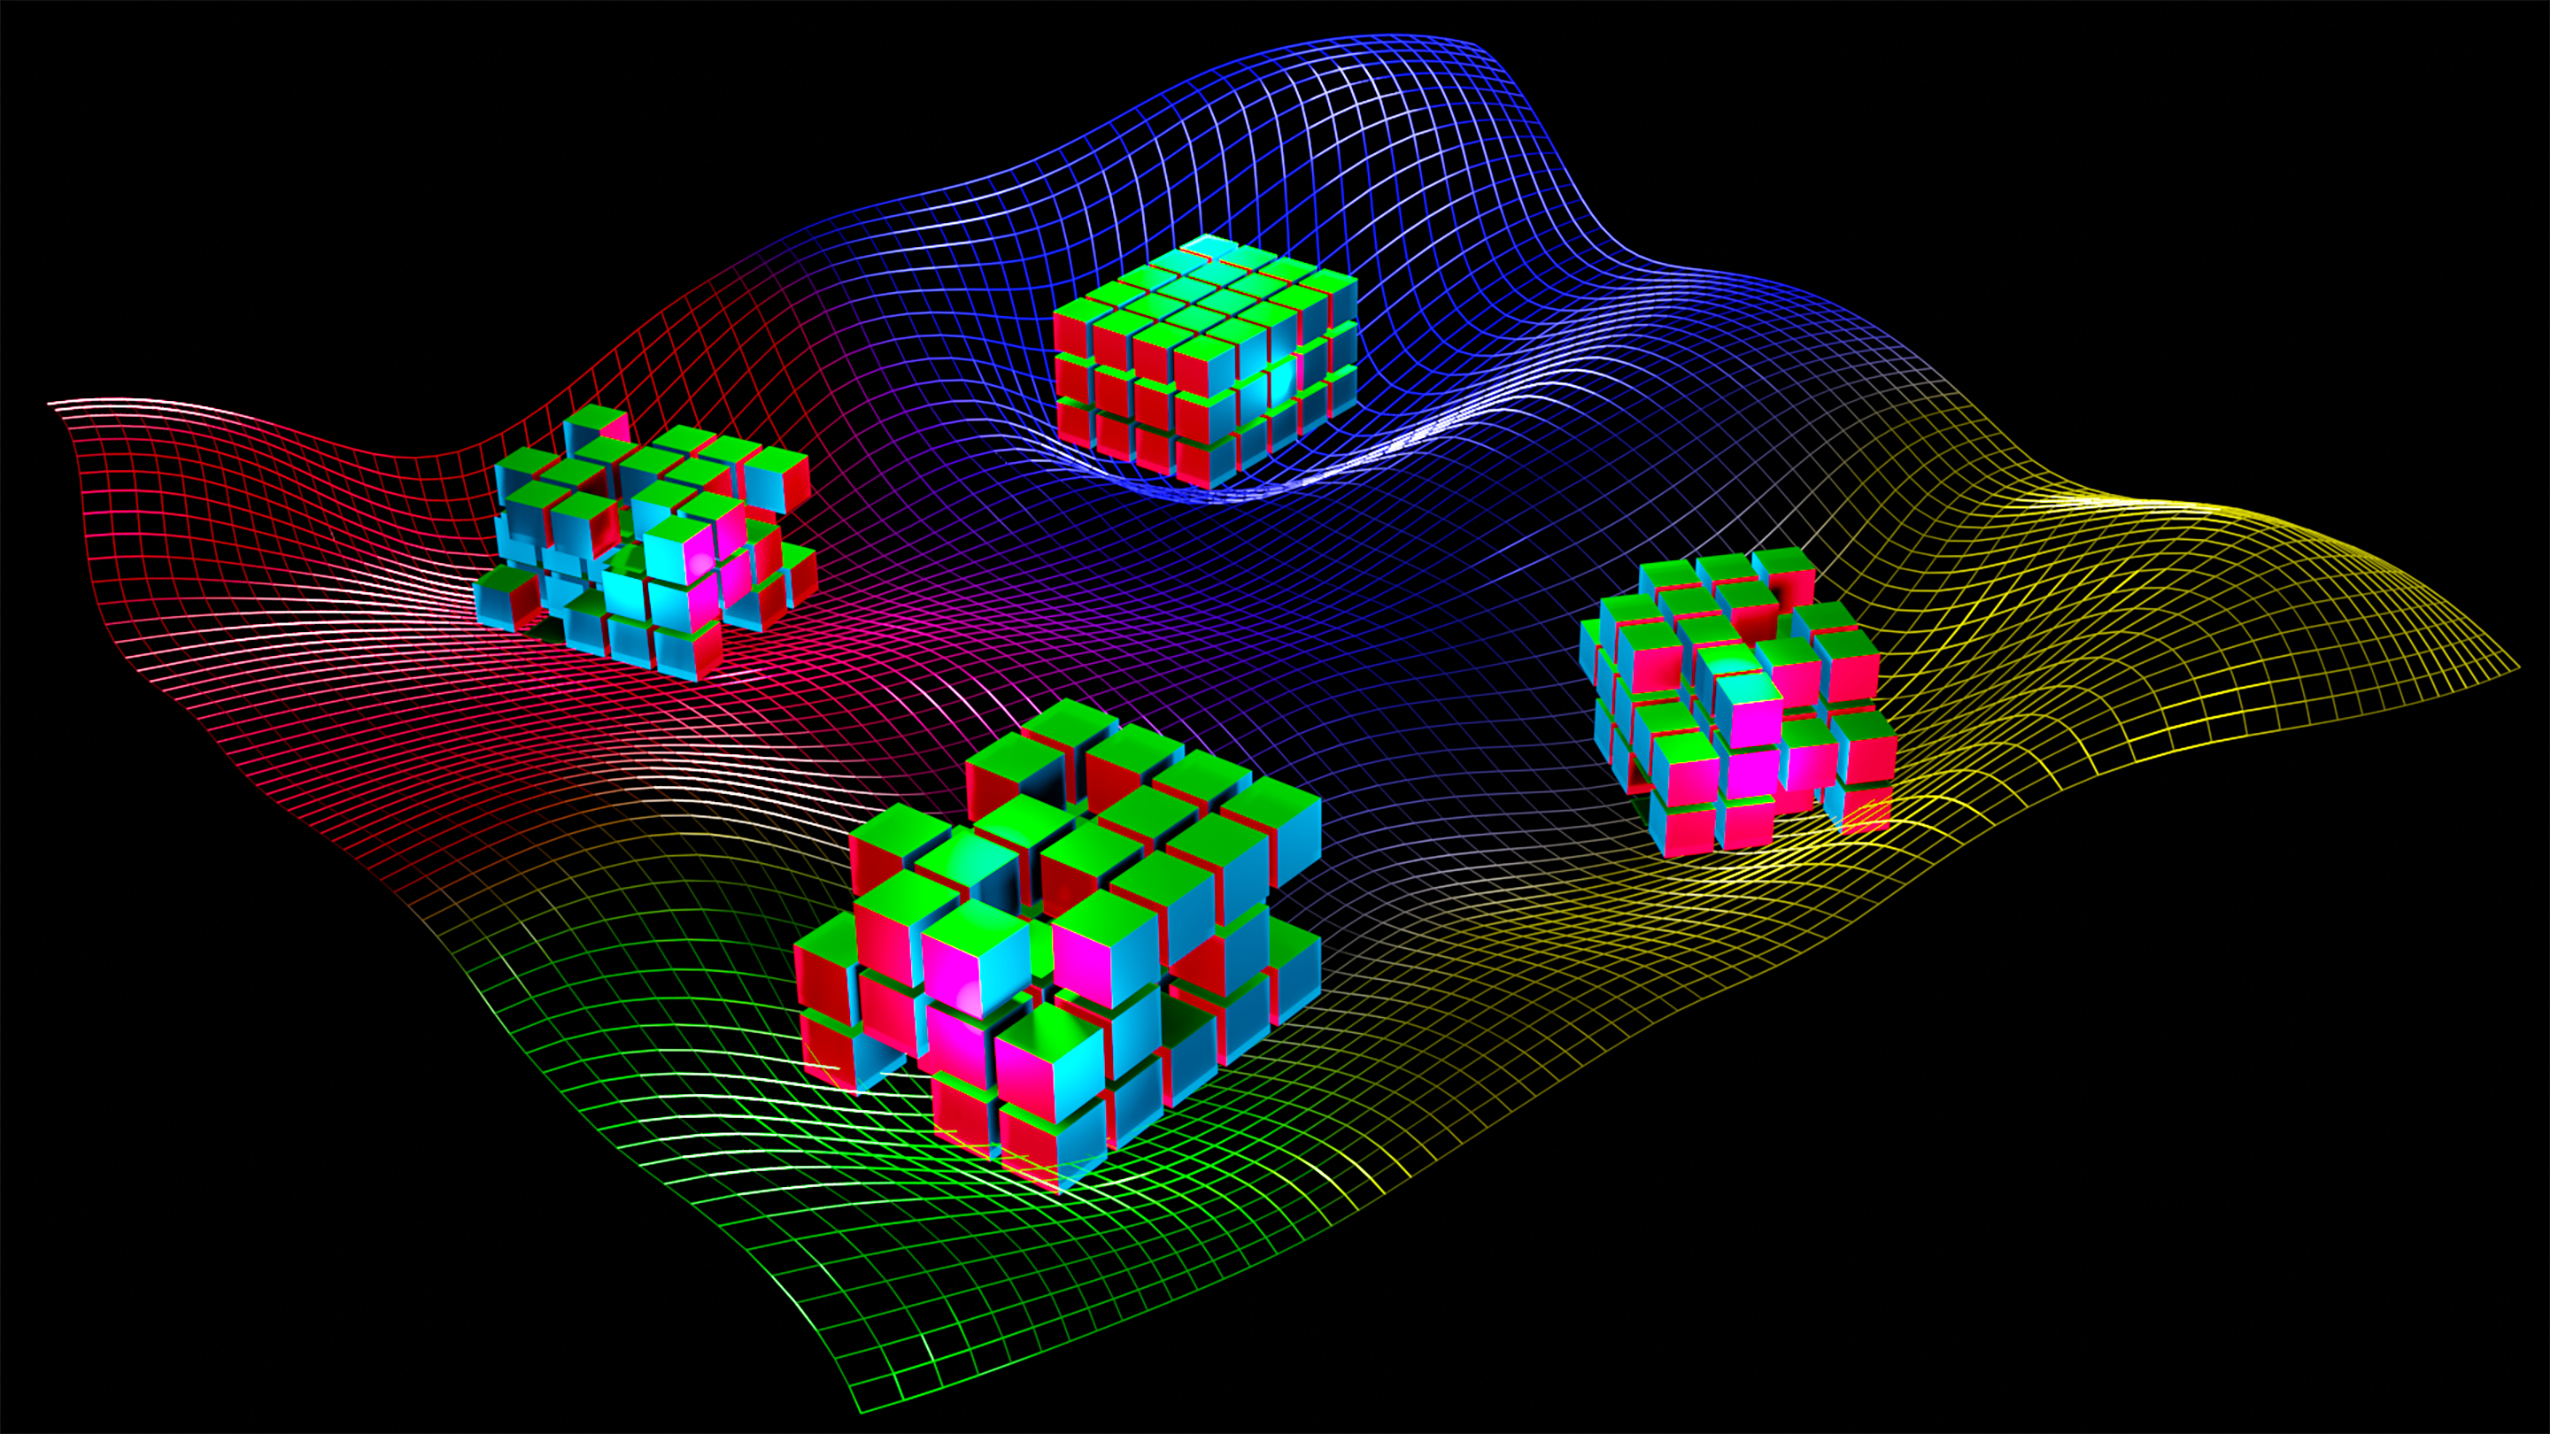
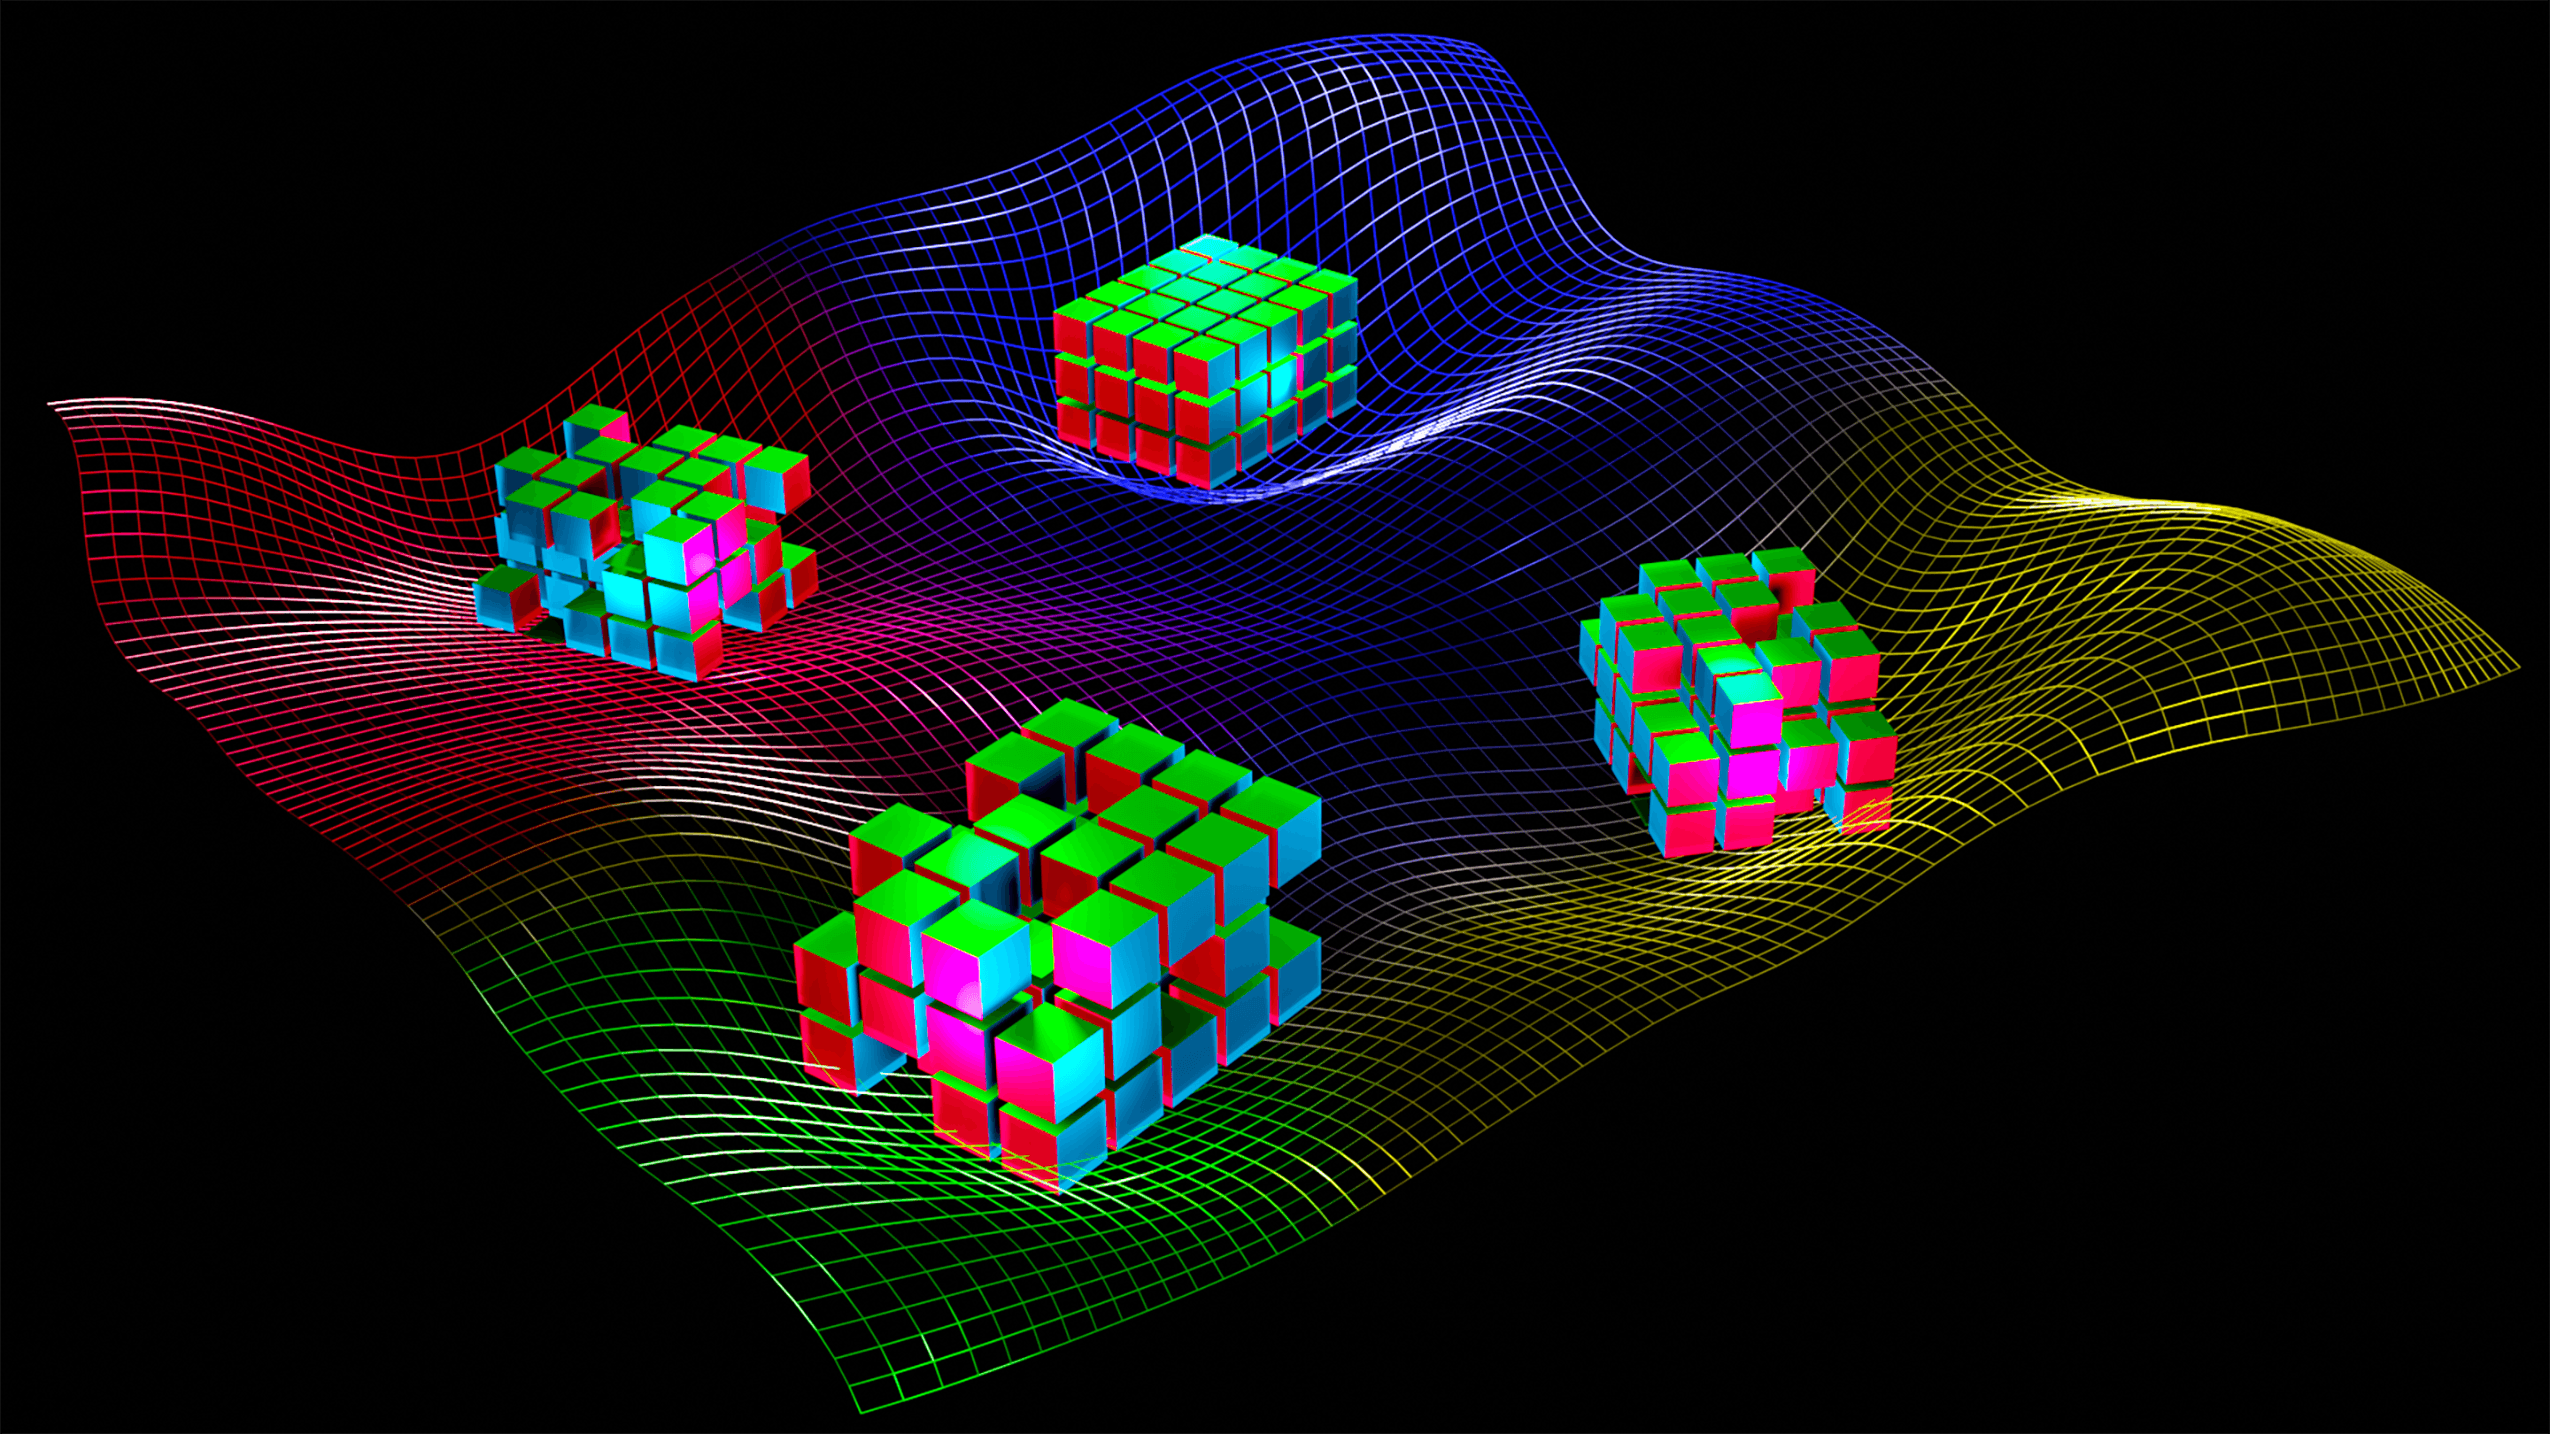
Compress previous images

Changed region(s): [[0.7125, 0.5523, 0.7435, 0.583]]

diff --git a/gallery.js b/gallery.js
@@ -6,13 +6,31 @@
 // ─────────────────────────────────────────────
 const GALLERY_IMAGES = [
   // Example — uncomment and add your files:
-  { file: 'empire-of-microsoft.jpg',  caption: 'Software wars" by wike is licensed under CC BY-SA 2.0.' },
+  { file: 'empire-of-microsoft.jpg',  caption: 'Software wars by wike is licensed under CC BY-SA 2.0.' },
   { file: 'The_Scientific_Universe.png',   caption: 'By Efbrazil - Own work, CC BY-SA 3.0, https://commons.wikimedia.org/w/index.php?curid=25567651' },
-  { file: 'Multidimensional_Software_Architecture_Environment.png',   caption: 'Lora Gilyard, CC BY-SA 4.0 <https://creativecommons.org/licenses/by-sa/4.0>, via Wikimedia Commons' },
-  { file: 'Principles_of_machine_learning.png',   caption: 'Langs, G., Röhrich, S., Hofmanninger, J. et al., CC BY 4.0 <https://creativecommons.org/licenses/by/4.0>, via Wikimedia Commons' },
-  { file: 'Gradient_descent_method_too_large_step_causes_oscillations_near_the_maximum.jpg',   caption: 'Tomasz59, CC BY-SA 4.0 <https://creativecommons.org/licenses/by-sa/4.0>, via Wikimedia Commons' },
-  { file: 'Figure-1-The-different-layers-of-an-embedded-system.jpg',   caption: 'Bassem Ouni, Cécile Belleudy, Eric Senn, CC BY 2.0 <https://creativecommons.org/licenses/by/2.0>, via Wikimedia Commons' },
-  { file: 'Qp_components.jpg',   caption: 'Mirosamek, CC BY-SA 3.0 <https://creativecommons.org/licenses/by-sa/3.0>, via Wikimedia Commons' },
+  { file: 'Multidimensional_Software_Architecture_Environment.png',   caption: 'Lora Gilyard, CC BY-SA 4.0, via Wikimedia Commons' },
+  { file: 'Principles_of_machine_learning.png',   caption: 'Langs, G., Röhrich, S., Hofmanninger, J. et al., CC BY 4.0, via Wikimedia Commons' },
+  { file: 'Gradient_descent_method_too_large_step_causes_oscillations_near_the_maximum.jpg',   caption: 'Tomasz59, CC BY-SA 4.0, via Wikimedia Commons' },
+  { file: 'Figure-1-The-different-layers-of-an-embedded-system.jpg',   caption: 'Bassem Ouni, Cécile Belleudy, Eric Senn, CC BY 2.0, via Wikimedia Commons' },
+  { file: 'Qp_components.jpg',   caption: 'Mirosamek, CC BY-SA 3.0, via Wikimedia Commons' },
   { file: '_The_School_of_Athens__by_Raffaello_Sanzio_da_Urbino.jpg',   caption: 'Raphael, Public domain, via Wikimedia Commons' },
   { file: 'Cole_Thomas_The_Consummation_The_Course_of_the_Empire_1836 (1).jpg',   caption: 'Thomas Cole, Public domain, via Wikimedia Commons' },
+  { file: 'melting-time.jpg',   caption: '"Melting Time" by SantaRosa OLD SKOOL is licensed under CC BY 2.0.' },
+  { file: 'cloud-providers.png',   caption: 'S.shahzadali, CC BY-SA 4.0, via Wikimedia Commons' },
+  { file: 'Digital-Marketing-Canvas_English.jpg',   caption: 'Jeremy Corman, CC BY-SA 3.0, via Wikimedia Commons' },
+  { file: 'user-centered-design.png',   caption: '"MM008: Figure 2.2" by Rosenfeld Media is licensed under CC BY 2.0.' },
+  { file: 'famous-equations.png',   caption: '"Some famous af physics and math equations with logos for them" by weta2000nz is marked with Public Domain Mark 1.0.' },
+  { file: 'nxp-soc-arm-cortex-a7-core.jpg',   caption: 'John McMaster, CC BY 4.0, via Wikimedia Commons' },
+  { file: '',   caption: '' },
+  { file: '',   caption: '' },
+  { file: '',   caption: '' },
+  { file: '',   caption: '' },
+  { file: '',   caption: '' },
+  { file: '',   caption: '' },
+  { file: '',   caption: '' },
+  { file: '',   caption: '' },
+  { file: '',   caption: '' },
+  { file: '',   caption: '' },
+  { file: '',   caption: '' },
+  { file: '',   caption: '' },
 ];
